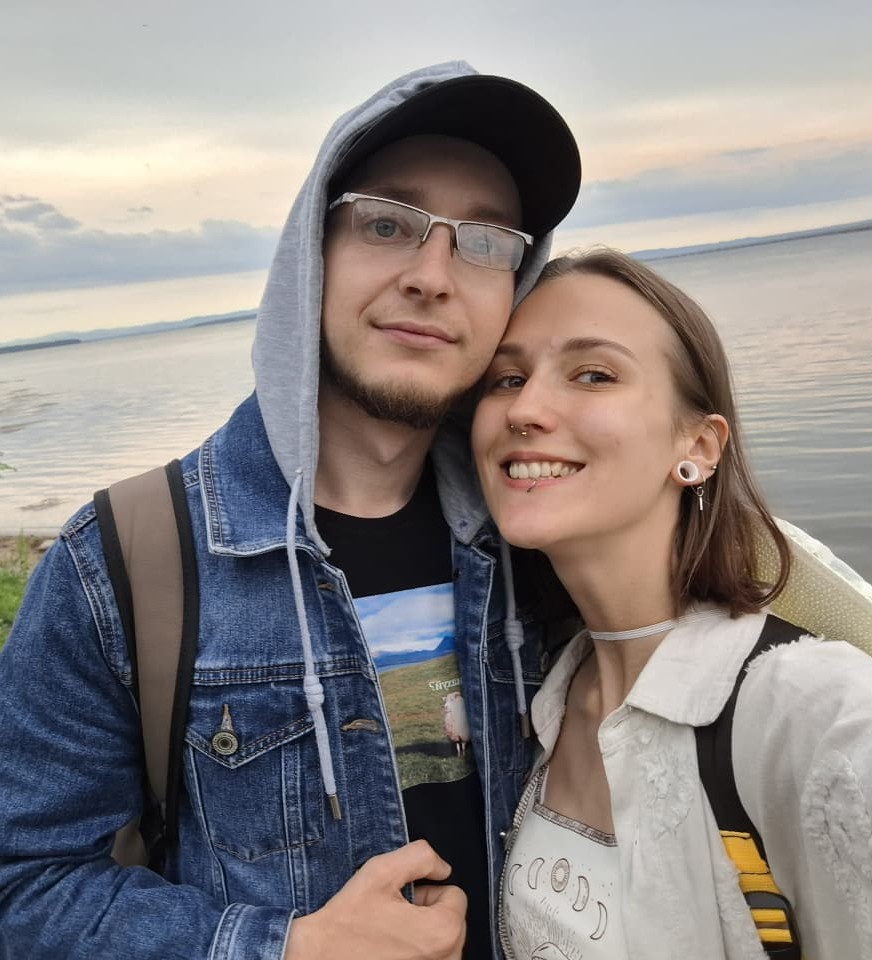
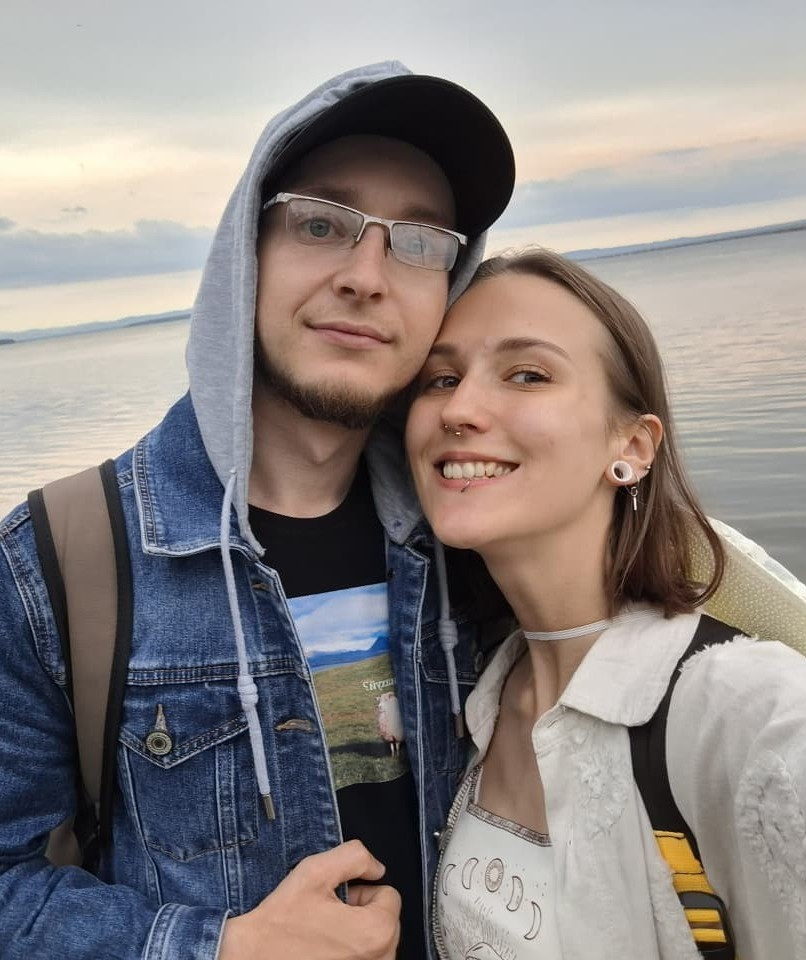
Add files via upload

diff --git a/index.html b/index.html
@@ -784,7 +784,7 @@
             <div class="f-cormorant title-large" style="font-size: 2rem; margin-bottom: 0px;">Локация</div>
             <div class="f-ceremonious" style="font-size: 2.83rem; line-height: 1.02; margin-top: 0;">Место проведения</div>
             
-            <p class="f-gothic" style="margin: 6px 0; font-weight: bold;">Торжественная регистрация.</p>
+            <p class="f-gothic" style="margin: 6px 0; font-weight: bold;">Торжественная регистрация</p>
             
             <div class="photo-container photo-large" style="height: 400px;">
                 <img src="photo14.jpeg" alt="" class="photo-img">
@@ -850,10 +850,10 @@
                 Мы очень ждём и готовимся к нашему незабываемому дню! 
 Чтобы воспоминания о свадьбе были положительными, а фотографии уникальными, мы просим вас быть в костюмах и платьях ради нас — мы это ценим и обещаем классные танцы до упаду (а не до пота на футболках)! 
 Конкретного стиля нет, но есть одно железное правило: мы хотим видеть вас красивыми, а не загорелыми (следы от шорт мы все равно не оценим).
-
                 </div>
             </div>
         </div>
+   </div>
 
         <!-- БЛОК 8 -->
         <div class="glass-block auto-height" style="text-align: center;">
@@ -910,7 +910,7 @@
             <div class="f-cormorant title-large" style="margin-bottom: 2px;">АНКЕТА</div>
             <div class="f-ceremonious" style="margin-top: 0;">Анкета гостя</div>
             
-            <p class="f-gothic" style="font-family: 'Century Gothic', sans-serif; font-weight: 300; font-size: 0.9rem; margin-bottom: 10px;">Будем очень признательны, если вы подтвердите своё присутствие до 19 августа.</p>
+            <p class="f-gothic" style="font-family: 'Century Gothic', sans-serif; font-weight: 300; font-size: 0.9rem; margin-bottom: 10px;">Будем очень признательны, если вы подтвердите своё присутствие.</p>
             
             <form class="rsvp-form" id="rsvp-form" onsubmit="submitRSVP(event)">
                 <div class="rsvp-field">
